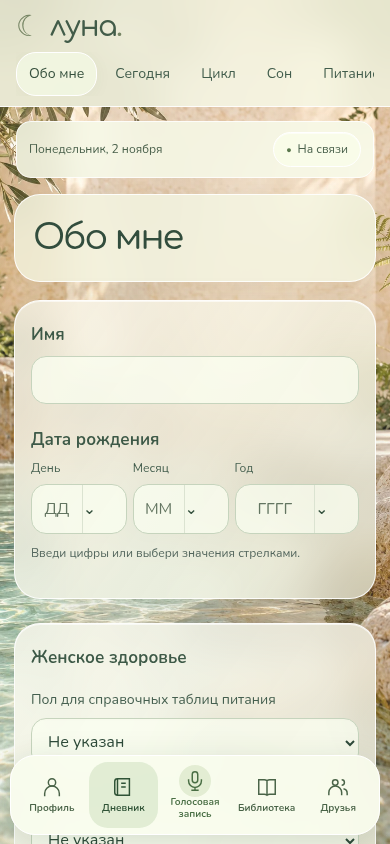
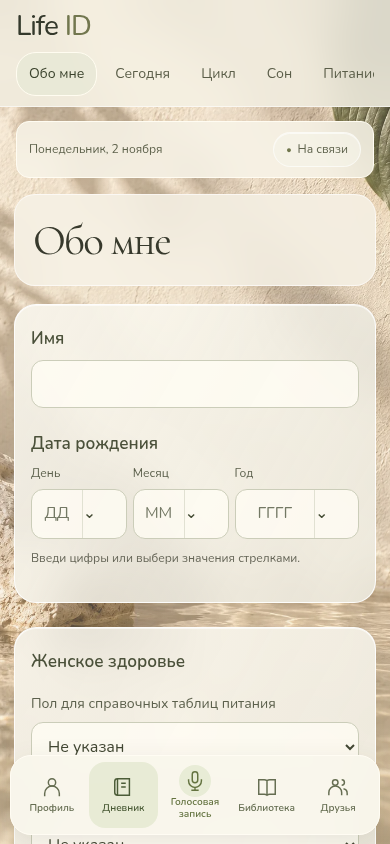
Restyle Life ID with linen olive textures and refined editorial typography

diff --git a/linen.css b/linen.css
@@ -1,0 +1,14 @@
+/* Linen, olive, water: a quieter editorial interpretation of the visual references. */
+@font-face{font-family:'Cormorant Garamond';src:url('./assets/fonts/CormorantGaramond-Italic.woff') format('woff');font-weight:300 700;font-style:italic;font-display:swap}
+:root{--display:'Cormorant Garamond',Georgia,serif;--ink:#36372e;--muted:#656557;--accent:#626847;--border:#d9d7c8;background:#eee9dc;color:var(--ink)}body{color:var(--ink)}body:before{background:linear-gradient(100deg,#f4f0e650,#f6f1e72e),url('./assets/linen-olive.webp') center/cover no-repeat}
+.sidebar{background:#f6f2e4ba;border-color:#fff9;backdrop-filter:blur(22px);-webkit-backdrop-filter:blur(22px)}.logo.brand-logo{font-family:Nunito,Arial,sans-serif;font-size:35px;font-weight:450;letter-spacing:-1.5px;color:#34392c}.logo.brand-logo .brand-id{font:inherit;margin:0;color:#72774f}.tagline{font-size:9px;letter-spacing:.2em;color:#68684f}.sidebar-note{font-family:var(--display);font-style:italic;font-size:27px;color:#575a43}.sidebar-note span{font-family:var(--sans);font-style:normal;font-size:12px;color:#646551}.sidebar nav a{color:#5b5e49}.sidebar nav a.active{color:#39412b;background:#e8e9d6d9;border-color:#fffcf0;box-shadow:none}.sidebar nav a:hover{background:#eeeddeaa}
+h1,h2,.profile-card>h1,.mini strong,.phase-card h3,.empty-view h3{font-family:var(--display);font-weight:400;letter-spacing:-.035em;color:#37392c;line-height:1.12}h1{font-size:62px}h2{font-size:41px}h3,h4{color:#414632;font-family:var(--sans);font-weight:600}.profile-card>h1{font-size:51px}.welcome>.eyebrow{font-family:var(--sans);font-style:normal;font-size:11px;letter-spacing:.17em;text-transform:uppercase;color:#61664a}.eyebrow{font-size:10px;color:#62664c;letter-spacing:.15em}.welcome:after{display:none}.affirmation-meta{color:#6a6b54;font-size:10px;gap:14px;margin-top:26px}.affirmation-meta:before{content:'';width:30px;height:1px;background:#898c6d}.affirmation-meta>span{font-size:10px;font-weight:600;letter-spacing:.17em}.affirmation-meta time{font-size:12px}#home #daily-affirmation{font-family:var(--display);font-style:italic;font-size:clamp(38px,4.4vw,58px);font-weight:400;line-height:1.14;letter-spacing:-.025em;margin:24px 0 28px;max-width:850px}.welcome p{font-size:15px;line-height:1.7;max-width:540px}.fine,.privacy,.muted,.welcome p,.mini p,.tip p,.phase-card>p,.reference-details,.reference-details>summary,.privacy-details>summary{color:var(--muted)}
+.card,.welcome,.mini,.profile-basics,.profile-card .profile-group,.section>.section-title{background:linear-gradient(120deg,#fcf9efd9,#f2f0e4bd);border:1px solid #ffffffe0;border-radius:22px;box-shadow:0 10px 32px #4040250d,inset 0 1px 0 #fff9;backdrop-filter:blur(22px) saturate(.6);-webkit-backdrop-filter:blur(22px) saturate(.6)}.card.profile-card{background:none;border:0;box-shadow:none;backdrop-filter:none;-webkit-backdrop-filter:none}.profile-card>h1{background:#f6f3e8ce;border-color:#fff9;border-radius:22px;box-shadow:0 8px 22px #48442908}.profile-card .about-label,.profile-card .profile-group>legend{font-family:var(--sans);font-size:17px;font-weight:600;color:#4b513a}.profile-card .profile-group label,.birth-group,label{color:#5c604c}.profile-card .fine{color:var(--muted)}.profile-card>#profile-advice,.profile-card>.reference-details,.profile-card>#profile-summary:not(:empty),.profile-card>#profile-error:not(:empty){background:#f7f3e7e6;color:#61634e;border-color:#fff9;border-radius:19px}
+main>header{background:#f8f5e9da;border-color:#fffcf2;border-radius:14px}header,#today,.badge,.pill{color:#5e624c}.badge,.pill{background:#f4f3e7b5;border-color:#fff9}.badge:before{color:#71774d}.mini strong{font-family:var(--display);font-size:31px;line-height:1.15}.mini>span{font-size:9px;letter-spacing:.16em;color:#5d6249}.mini.pink{background:linear-gradient(120deg,#f7f2e4df,#ded9c4bd)}.mini.lavender{background:linear-gradient(120deg,#f5f2e8de,#e3e3ceba)}.mini.green{background:linear-gradient(120deg,#35422ae8,#4d5939b8),url('./assets/linen-olive.webp') 100% 18%/300% auto;border-color:#9d9f777a}.mini.green strong,.mini.green p,.mini.green>span{color:#fcfaee}.mini.green p{opacity:.94}
+input,select,textarea,.profile-group textarea,.voice-editor{font-family:var(--sans);color:#424733;background:#fffdf4cc;border-color:#cbcdb9;border-radius:12px;box-shadow:none}.birth-control{background:#fffdf4cc;border-color:#cbcdb9;border-radius:12px}.birth-control input,.birth-control select{background:none;color:#444c34;border-radius:0}.birth-control select{border-left-color:#e1e1d2}input::placeholder,textarea::placeholder{color:#737864}.birth-help{color:#676c56}.birth-control:focus-within,input:focus-visible,select:focus-visible,textarea:focus-visible,a:focus-visible,button:focus-visible{outline-color:#6b754e}input[type=checkbox]{accent-color:#69724d}
+button,.voice-start{background:linear-gradient(120deg,#747b55,#545e3e);border-color:#626c48;border-radius:17px;color:#fffdf0;font-weight:600;box-shadow:inset 0 1px 0 #f5f1d933,0 5px 12px #444c2c10}.secondary,.water-presets button,.voice-note-actions button{background:#f4f3e6da!important;color:#566044!important;border-color:#c6ccb0!important}.text-link{color:#536239}.voice-card{background:#f1f0df9e;border-color:#cdd2b9;border-radius:16px}.voice-card>summary,.voice-status,.voice-interim,.voice-profile-result{color:#535e3d}.voice-card.listening{border-color:#7d885b;box-shadow:0 0 0 3px #919e6b33}.voice-note,.record{background:#f7f5e8ca!important;border-color:#d8dbc6;color:#4b543c}.voice-note p{color:#4b543c}.callout{color:#616747;border-color:#cdd2b9}.icon-button{color:#5c6842!important;border-color:#c9cfb3!important;background:#f7f6e7bb!important}.error{color:#914a32}
+.phase-card{background:linear-gradient(130deg,#f5f1e5dc,#dedfc6bd)}.phase-card h3{font-size:39px}.calendar-title h3{font-family:var(--sans)}.day{color:#4f583b}.day.selected{border-color:#677344!important}.day.today:after{background:#667040}.legend,.weekdays{color:#62694e}.menstrual{background:#e8c9bb!important;color:#6d4032!important}.follicular{background:#dfe2c5!important;color:#4f5932!important}.ovulation{background:#eee0b7!important;color:#6b572c!important}.luteal{background:#ded4df!important;color:#65516c!important}.big-number,.macro strong{font-family:var(--sans);font-weight:600;color:#5b653e}.macro{background:#eaeddac2;border-color:#ffffffe0;border-radius:16px}.macro span{color:#646c4c}.bar{background:linear-gradient(#a2ad7e,#717c50)}.bar-wrap small{color:#626c4c}.profile-bmi{background:#e2e6cbb8;border-color:#f5f7e6;color:#53613b}.profile-bmi output{color:#5b6b3f}.nutrient-label,.nutrient-group>summary,.nutrient-fieldset legend{color:#53613e}.nutrient-label small,.nutrient-note,.nutrient-source,.nutrient-subtype{color:#667052}.nutrient-group,.nutrient-fieldset{border-color:#d3d8be}.track{background:#e3e5d2}.fill{background:#7e8a56}.salt-summary,.salt-block{background:#e9ebd9bb;border-color:#cfd6ba;color:#5a6747}.water-card{background:linear-gradient(130deg,#f7f4e6d9,#dbe4d3b8)}.water-card #water-total{color:#596f51}.water-presets button[aria-pressed=true]{background:#dce3c8!important;border-color:#a8b38d!important;color:#4b5e37!important}.catalog-item{background:#f6f5e8cc;border-color:#d4d8c0}.catalog-item small,.catalog-item p,.ai-note p{color:#636d4e}.ai-note{background:#e9ecd8ba}.ai-note span{color:#5d6b44}.capture-item{background:#f1f3e3da;border-color:#c9d2b1;border-radius:19px}.capture-item textarea{background:#fafbf0e6;border-color:#c7ceaf;color:#4d5b38}.capture-item .capture-warning{color:#80552f}.empty-view,.empty-view p{color:#68704f}.empty-symbol{color:#8b9768}
+footer,footer>span{color:#586542}footer>span,.privacy-details{background:#f7f5e9e3;border-radius:15px}.bottom-nav{background:#f9f7eddf;border-color:#fffcf3;box-shadow:0 8px 28px #44442a1c;border-radius:22px}.bottom-nav a{color:#656d51;border-radius:16px}.bottom-nav a.active{background:#e2e7cdbf;color:#4b5c37}.bottom-nav .capture-tab{color:#647340}.bottom-nav .capture-tab svg{background:#e8ecd6}.bottom-nav .capture-tab.active svg{background:#6d7b4b;color:#fffdf0}.bottom-nav a span{font-weight:600}
+@supports not (backdrop-filter:blur(1px)){.card,.welcome,.mini,.sidebar,.bottom-nav,.profile-basics,.profile-card .profile-group{background:#f6f3e9}.mini.green{background:#4e5d39}.card.profile-card{background:none}}
+@media(max-width:767px),(max-width:1023px) and (pointer:coarse){body:before{background-position:center center}.sidebar{background:#f6f2e5d6}.logo.brand-logo{font-size:28px;letter-spacing:-1px}.logo.brand-logo .brand-id{font:inherit;letter-spacing:-1px}.card,.welcome,.mini,.profile-card>h1,.section>.section-title{border-radius:21px}.profile-card>h1{font-size:43px;padding:21px 18px}.profile-card .about-label,.profile-card .profile-group>legend{font-family:var(--sans);font-size:17px}.welcome>.eyebrow{font-family:var(--sans);font-size:11px;letter-spacing:.14em}.welcome{padding:26px 21px}#home #daily-affirmation{font-family:var(--display);font-style:italic;font-size:39px;line-height:1.13;letter-spacing:-.7px;margin:23px 0}.affirmation-meta{gap:10px;margin-top:23px}.affirmation-meta:before{width:20px}.affirmation-meta>span{font-size:9px}.affirmation-meta time{font-size:11px}.welcome p{font-size:14px}.mini strong{font-family:var(--display);font-size:29px;line-height:1.12}.mini{padding:21px}.mini>span{font-size:9px}.phase-card h3{font-size:36px}h2,.section-title h2{font-size:35px}.bottom-nav{border-radius:21px}.bottom-nav a{border-radius:16px}.fine,.privacy,.muted{color:var(--muted)}main>header{border-radius:13px}.card.profile-card{padding:0;background:none;border:0}}
+@media(prefers-reduced-transparency:reduce){.card,.welcome,.mini,.sidebar,.bottom-nav,.profile-basics,.profile-card .profile-group,.profile-card>h1{background:#f6f3e9;backdrop-filter:none;-webkit-backdrop-filter:none}.mini.green{background:#4e5d39}.card.profile-card{background:none}}

diff --git a/index.html b/index.html
@@ -1,5 +1,5 @@
 <!doctype html>
-<html lang="ru"><head><meta charset="utf-8"><meta name="viewport" content="width=device-width, initial-scale=1, viewport-fit=cover"><meta name="theme-color" content="#e8eddf"><meta name="description" content="Life ID — дневник заботы о себе"><link rel="manifest" href="./manifest.webmanifest"><link rel="icon" href="./icon.svg"><link rel="apple-touch-icon" href="./icon-192.png"><link rel="stylesheet" href="./style.css"><link rel="stylesheet" href="./mobile.css"><link rel="stylesheet" href="./capture.css"><link rel="stylesheet" href="./profile.css"><link rel="stylesheet" href="./aesthetic.css"><link rel="stylesheet" href="./garden.css"><title>Life ID — удели внимание себе</title></head>
+<html lang="ru"><head><meta charset="utf-8"><meta name="viewport" content="width=device-width, initial-scale=1, viewport-fit=cover"><meta name="theme-color" content="#eee9dc"><meta name="description" content="Life ID — дневник заботы о себе"><link rel="manifest" href="./manifest.webmanifest"><link rel="icon" href="./icon.svg"><link rel="apple-touch-icon" href="./icon-192.png"><link rel="stylesheet" href="./style.css"><link rel="stylesheet" href="./mobile.css"><link rel="stylesheet" href="./capture.css"><link rel="stylesheet" href="./profile.css"><link rel="stylesheet" href="./aesthetic.css"><link rel="stylesheet" href="./garden.css"><link rel="stylesheet" href="./linen.css"><title>Life ID — удели внимание себе</title></head>
 <body><div class="layout"><aside class="sidebar"><a class="logo brand-logo" href="#home" aria-label="Life ID — дневник">Life <span class="brand-id">ID</span></a><p class="tagline">УДЕЛИ ВНИМАНИЕ СЕБЕ</p><nav data-menu="profile" aria-label="Разделы профиля"><a href="#account"><span class="menu-icon" aria-hidden="true">◉</span><span>Аккаунт</span></a><a href="#settings"><span class="menu-icon" aria-hidden="true">⚙</span><span>Настройки</span></a><a href="#subscription"><span class="menu-icon" aria-hidden="true">◇</span><span>Подписка</span></a><a href="#devices"><span class="menu-icon" aria-hidden="true">⌁</span><span>Подключённые девайсы</span></a></nav><nav data-menu="diary" aria-label="Разделы дневника" hidden><a href="#profile" aria-label="Обо мне"><span data-short="Обо мне">Обо мне</span></a><a href="#home" aria-label="Мой день">◌ <span data-short="Сегодня">Мой день</span></a><a href="#cycle" aria-label="Мой цикл">✿ <span data-short="Цикл">Мой цикл</span></a><a href="#sleep" aria-label="Сон и отдых">☾ <span data-short="Сон">Сон и отдых</span></a><a href="#food" aria-label="Питание">♧ <span data-short="Питание">Питание</span></a><a href="#activity" aria-label="Активность и заметки"><span data-short="Ещё">Активность и заметки</span></a></nav><nav data-menu="library" aria-label="Разделы библиотеки" hidden><a href="#library"><span>Библиотека</span></a></nav><nav data-menu="friends" aria-label="Разделы друзей" hidden><a href="#friends"><span>Друзья</span></a></nav><div class="sidebar-note">Место, где можно<br>прислушаться к себе.<span>Твои данные остаются<br>в этом браузере.</span></div></aside>
 <main><header><span id="today"></span><span class="badge" id="connection">На связи</span></header><section data-main-view="diary" id="profile" class="card profile-card"><h1>Обо мне</h1>
 <form id="profile-form" class="profile-sections">

diff --git a/sw.js b/sw.js
@@ -1,5 +1,5 @@
-const CACHE='luna-diary-v21';
-const ASSETS=['./','./index.html','./style.css','./mobile.css','./capture.css','./profile.css','./aesthetic.css','./garden.css','./daily-affirmation.js','./assets/garden-spa.webp','./assets/fonts/Nunito.woff','./assets/fonts/Comfortaa.ttf','./assets/fonts/Caveat.woff','./assets/mineral-landscape.svg','./assets/fonts/Manrope.woff','./assets/fonts/CormorantGaramond.woff','./profile-model.js','./profile.js','./capture-parser.js','./capture.js','./app.js','./voice.js','./navigation.js','./profile-parser.js','./norms.js','./manifest.webmanifest','./icon.svg','./icon-192.png','./icon-512.png'];
+const CACHE='luna-diary-v22';
+const ASSETS=['./','./index.html','./style.css','./mobile.css','./capture.css','./profile.css','./aesthetic.css','./garden.css','./linen.css','./assets/linen-olive.webp','./assets/fonts/CormorantGaramond-Italic.woff','./daily-affirmation.js','./assets/garden-spa.webp','./assets/fonts/Nunito.woff','./assets/fonts/Comfortaa.ttf','./assets/fonts/Caveat.woff','./assets/mineral-landscape.svg','./assets/fonts/Manrope.woff','./assets/fonts/CormorantGaramond.woff','./profile-model.js','./profile.js','./capture-parser.js','./capture.js','./app.js','./voice.js','./navigation.js','./profile-parser.js','./norms.js','./manifest.webmanifest','./icon.svg','./icon-192.png','./icon-512.png'];
 self.addEventListener('install',event=>{event.waitUntil(caches.open(CACHE).then(cache=>cache.addAll(ASSETS)).then(()=>self.skipWaiting()));});
 self.addEventListener('activate',event=>{event.waitUntil(caches.keys().then(keys=>Promise.all(keys.filter(key=>(key.startsWith('little-steps-')||key.startsWith('luna-diary-'))&&key!==CACHE).map(key=>caches.delete(key)))).then(()=>self.clients.claim()));});
 self.addEventListener('fetch',event=>{if(event.request.method!=='GET'||new URL(event.request.url).origin!==self.location.origin)return;event.respondWith(caches.match(event.request).then(cached=>cached||fetch(event.request).catch(error=>{if(event.request.mode==='navigate')return caches.match('./index.html');throw error;})));});

diff --git a/tests/about_smoke.py b/tests/about_smoke.py
@@ -7,7 +7,7 @@ import os,json
 URL=os.environ.get('LUNA_TEST_URL','http://127.0.0.1:8015/Test/')
 with sync_playwright() as p:
  b=p.chromium.launch(executable_path='/usr/bin/chromium',args=['--no-sandbox']);ctx=b.new_context(viewport={'width':390,'height':844},is_mobile=True,has_touch=True,timezone_id='Europe/Podgorica',locale='ru-RU');page=ctx.new_page();errors=[];page.on('pageerror',lambda e:errors.append(str(e)))
- page.clock.install(time=datetime(2026,11,2,12,tzinfo=timezone.utc));page.goto(URL);page.wait_for_function('navigator.serviceWorker.controller!==null');page.evaluate('Promise.all([document.fonts.ready,document.fonts.load("500 26px Caveat","Немного внимания к себе")])');assert page.evaluate('document.fonts.check("400 16px Nunito","Женское здоровье") && document.fonts.check("500 35px Comfortaa","Обо мне") && document.fonts.check("500 26px Caveat","Немного внимания к себе")')
+ page.clock.install(time=datetime(2026,11,2,12,tzinfo=timezone.utc));page.goto(URL);page.wait_for_function('navigator.serviceWorker.controller!==null');page.evaluate('Promise.all([document.fonts.ready,document.fonts.load("italic 400 39px Cormorant Garamond","Обо мне"),document.fonts.load("500 26px Caveat","Немного внимания к себе")])');assert page.evaluate('document.fonts.check("400 16px Nunito","Женское здоровье") && document.fonts.check("italic 400 39px Cormorant Garamond","Обо мне") && document.fonts.check("500 26px Caveat","Немного внимания к себе")')
  assert page.locator('#today').is_visible() and page.locator('#today').inner_text()=='Понедельник, 2 ноября'
  assert page.locator('#profile h1').inner_text()=='Обо мне'
  assert page.locator('.bottom-nav [aria-current="page"]').inner_text()=='Дневник'
@@ -56,7 +56,7 @@ with sync_playwright() as p:
    if field.is_visible() and field.get_attribute('type')!='checkbox':assert field.evaluate('(e)=>parseFloat(getComputedStyle(e).fontSize)')>=16
  page.set_viewport_size({'width':390,'height':844});page.evaluate('scrollTo({top:0,behavior:"instant"})');page.screenshot(path='/tmp/luna-check/about-me-mobile.png')
  page.locator('#profile-body-fields').scroll_into_view_if_needed();page.screenshot(path='/tmp/luna-check/body-mobile.png')
- ctx.set_offline(True);page.reload();page.evaluate('Promise.all([document.fonts.ready,document.fonts.load("500 26px Caveat","Немного внимания к себе")])');assert page.evaluate('document.fonts.check("400 16px Nunito","Женское здоровье") && document.fonts.check("500 35px Comfortaa","Обо мне") && document.fonts.check("500 26px Caveat","Немного внимания к себе")');assert page.locator('#profile-birthDate').input_value()=='1996-11-02' and page.locator('#profile-waterPercent').input_value()=='55'
+ ctx.set_offline(True);page.reload();page.evaluate('Promise.all([document.fonts.ready,document.fonts.load("italic 400 39px Cormorant Garamond","Обо мне"),document.fonts.load("500 26px Caveat","Немного внимания к себе")])');assert page.evaluate('document.fonts.check("400 16px Nunito","Женское здоровье") && document.fonts.check("italic 400 39px Cormorant Garamond","Обо мне") && document.fonts.check("500 26px Caveat","Немного внимания к себе")');assert page.locator('#profile-birthDate').input_value()=='1996-11-02' and page.locator('#profile-waterPercent').input_value()=='55'
  assert page.locator('#profile-healthNotes').input_value()=='Личная заметка' and page.evaluate('state.periods.length')==1
  with page.expect_download() as d:page.locator('#export-data').click()
  data=json.loads(Path(d.value.path()).read_text());assert data['profile']['body']['basalMetabolism']==1450 and data['profile']['birthDate']=='1996-11-02'

diff --git a/tests/life_id_smoke.py b/tests/life_id_smoke.py
@@ -10,7 +10,7 @@ with sync_playwright() as p:
  page=ctx.new_page();errors=[];page.on('pageerror',lambda e:errors.append(str(e)));page.clock.install(time=datetime(2026,11,2,22,59,59,tzinfo=timezone.utc));page.goto(URL+'#home');page.wait_for_function('navigator.serviceWorker.controller!==null');page.evaluate('document.fonts.ready')
  assert page.title()=='Life ID — удели внимание себе' and page.locator('.logo').text_content()=='Life ID'
  manifest=page.evaluate('fetch("./manifest.webmanifest").then(r=>r.json())');assert manifest['name']=='Life ID' and manifest['short_name']=='Life ID' and manifest['id']=='./'
- assert page.locator('#home .eyebrow').inner_text()=='Удели внимание себе'
+ assert page.locator('#home .eyebrow').text_content()=='Удели внимание себе'
  assert 'Твой ритм' not in page.locator('#home').inner_text() and 'Немного внимания' not in page.locator('#home').inner_text()
  first=page.locator('#daily-affirmation').inner_text();assert first and page.locator('#daily-affirmation').get_attribute('data-date')=='2026-11-02'
  # Midnight updates an already open app; no refresh, random reroll or storage writes.
